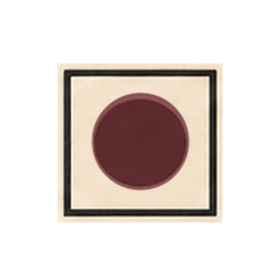
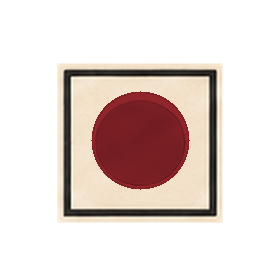
v165

Changed region(s): [[0.3143, 0.3143, 0.6857, 0.6857]]

diff --git a/boxxy.js b/boxxy.js
@@ -33,7 +33,7 @@
   });
 })();
 
-/* BOXXY v164 — fifteen sprite-based target colours and text codes. */
+/* BOXXY v165 — bright sprite-matched target colours and reversed text codes. */
 (() => {
   "use strict";
   const DEFAULT = "red";
@@ -43,21 +43,21 @@
     "orange", "yellow", "lime", "pink", "cream"
   ]);
   const PALETTE = Object.freeze({
-    red: Object.freeze({ label: "Red", hex: "#da1c1c", targetCode: "R", boxCode: "r", playerCode: "1" }),
-    blue: Object.freeze({ label: "Blue", hex: "#1048bb", targetCode: "B", boxCode: "b", playerCode: "2" }),
-    green: Object.freeze({ label: "Green", hex: "#28773b", targetCode: "G", boxCode: "g", playerCode: "3" }),
-    purple: Object.freeze({ label: "Purple", hex: "#672b9f", targetCode: "P", boxCode: "p", playerCode: "4" }),
-    "light-blue": Object.freeze({ label: "Light blue", hex: "#55b5dd", targetCode: "C", boxCode: "c", playerCode: "5" }),
-    teal: Object.freeze({ label: "Teal", hex: "#0d9792", targetCode: "T", boxCode: "t", playerCode: "6" }),
-    black: Object.freeze({ label: "Black", hex: "#232323", targetCode: "K", boxCode: "k", playerCode: "7" }),
-    grey: Object.freeze({ label: "Grey", hex: "#727170", targetCode: "A", boxCode: "a", playerCode: "8" }),
-    burgundy: Object.freeze({ label: "Burgundy", hex: "#6c1a1e", targetCode: "M", boxCode: "m", playerCode: "9" }),
-    brown: Object.freeze({ label: "Brown", hex: "#694221", targetCode: "W", boxCode: "w", playerCode: "0" }),
-    orange: Object.freeze({ label: "Orange", hex: "#f26e0c", targetCode: "O", boxCode: "o", playerCode: "!" }),
-    yellow: Object.freeze({ label: "Yellow", hex: "#f4b30f", targetCode: "Y", boxCode: "y", playerCode: "?" }),
-    lime: Object.freeze({ label: "Lime", hex: "#98c20e", targetCode: "L", boxCode: "l", playerCode: "%" }),
-    pink: Object.freeze({ label: "Pink", hex: "#ea6283", targetCode: "F", boxCode: "f", playerCode: "&" }),
-    cream: Object.freeze({ label: "Cream", hex: "#e7e0d0", targetCode: "I", boxCode: "i", playerCode: "=" })
+    red: Object.freeze({ label: "Red", hex: "#ec2826", targetCode: "r", boxCode: "R", playerCode: "1" }),
+    blue: Object.freeze({ label: "Blue", hex: "#1553ca", targetCode: "b", boxCode: "B", playerCode: "2" }),
+    green: Object.freeze({ label: "Green", hex: "#328545", targetCode: "g", boxCode: "G", playerCode: "3" }),
+    purple: Object.freeze({ label: "Purple", hex: "#7433ac", targetCode: "p", boxCode: "P", playerCode: "4" }),
+    "light-blue": Object.freeze({ label: "Light blue", hex: "#64c0e8", targetCode: "c", boxCode: "C", playerCode: "5" }),
+    teal: Object.freeze({ label: "Teal", hex: "#119f9a", targetCode: "t", boxCode: "T", playerCode: "6" }),
+    black: Object.freeze({ label: "Black", hex: "#282827", targetCode: "k", boxCode: "K", playerCode: "7" }),
+    grey: Object.freeze({ label: "Grey", hex: "#7e7d7d", targetCode: "a", boxCode: "A", playerCode: "8" }),
+    burgundy: Object.freeze({ label: "Burgundy", hex: "#781f24", targetCode: "m", boxCode: "M", playerCode: "9" }),
+    brown: Object.freeze({ label: "Brown", hex: "#774c29", targetCode: "w", boxCode: "W", playerCode: "0" }),
+    orange: Object.freeze({ label: "Orange", hex: "#f97915", targetCode: "o", boxCode: "O", playerCode: "!" }),
+    yellow: Object.freeze({ label: "Yellow", hex: "#f9bc18", targetCode: "y", boxCode: "Y", playerCode: "?" }),
+    lime: Object.freeze({ label: "Lime", hex: "#a3cb16", targetCode: "l", boxCode: "L", playerCode: "%" }),
+    pink: Object.freeze({ label: "Pink", hex: "#f16e8f", targetCode: "f", boxCode: "F", playerCode: "&" }),
+    cream: Object.freeze({ label: "Cream", hex: "#ece6d9", targetCode: "i", boxCode: "I", playerCode: "=" })
   });
   const GOAL_CHARS = new Set([".", "*", "+"]);
   const TEXT_CODES = new Map();
@@ -376,7 +376,7 @@
   window.BoxxyShareCodec = Object.freeze({ encode, decode, readLocation, buildUrl });
 })();
 
-/* BOXXY v164 — character renderer, game engine, fifteen sprite-based target colours, Level Maker and Rust/WASM solver adapter. */
+/* BOXXY v165 — character renderer, game engine, bright sprite-matched targets, Level Maker and Rust/WASM solver adapter. */
 (() => {
   "use strict";
 

diff --git a/index.html b/index.html
@@ -389,7 +389,7 @@
             <button id="makerCopyBtn" type="button">COPY LEVEL</button>
             <button id="makerShareBtn" type="button">COPY SHARE LINK</button>
           </div>
-          <p class="maker-legend"><code>#</code> wall · <code>@</code> player · <code>$</code> yellow box · uppercase colour letter = target · lowercase colour letter = box on that target</p>
+          <p class="maker-legend"><code>#</code> wall · <code>@</code> player · <code>$</code> yellow box · lowercase colour letter = target · uppercase colour letter = box on that target</p>
           <details class="maker-colour-codes">
             <summary>COLOUR LETTERS</summary>
             <p><code>R/r</code> red · <code>B/b</code> blue · <code>G/g</code> green · <code>P/p</code> purple · <code>C/c</code> light blue · <code>T/t</code> teal · <code>K/k</code> black · <code>A/a</code> grey · <code>M/m</code> burgundy · <code>W/w</code> brown · <code>O/o</code> orange · <code>Y/y</code> yellow · <code>L/l</code> lime · <code>F/f</code> pink · <code>I/i</code> cream</p>
